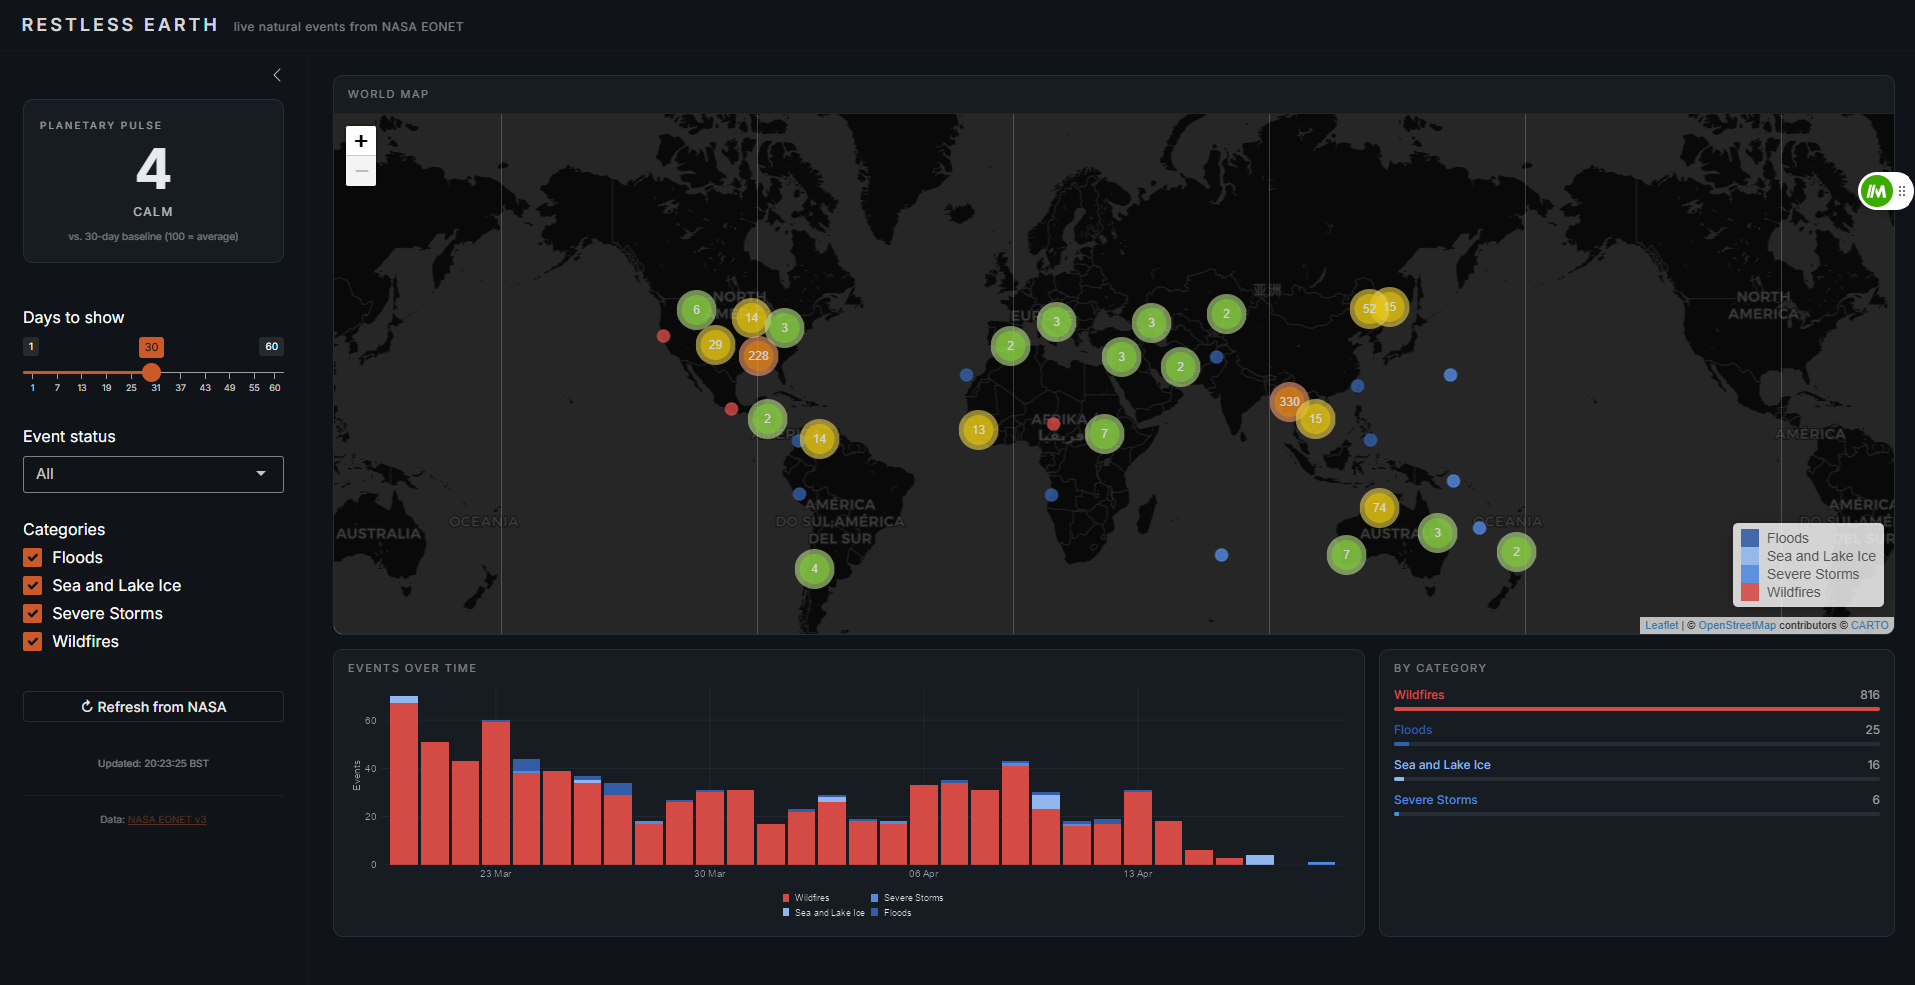
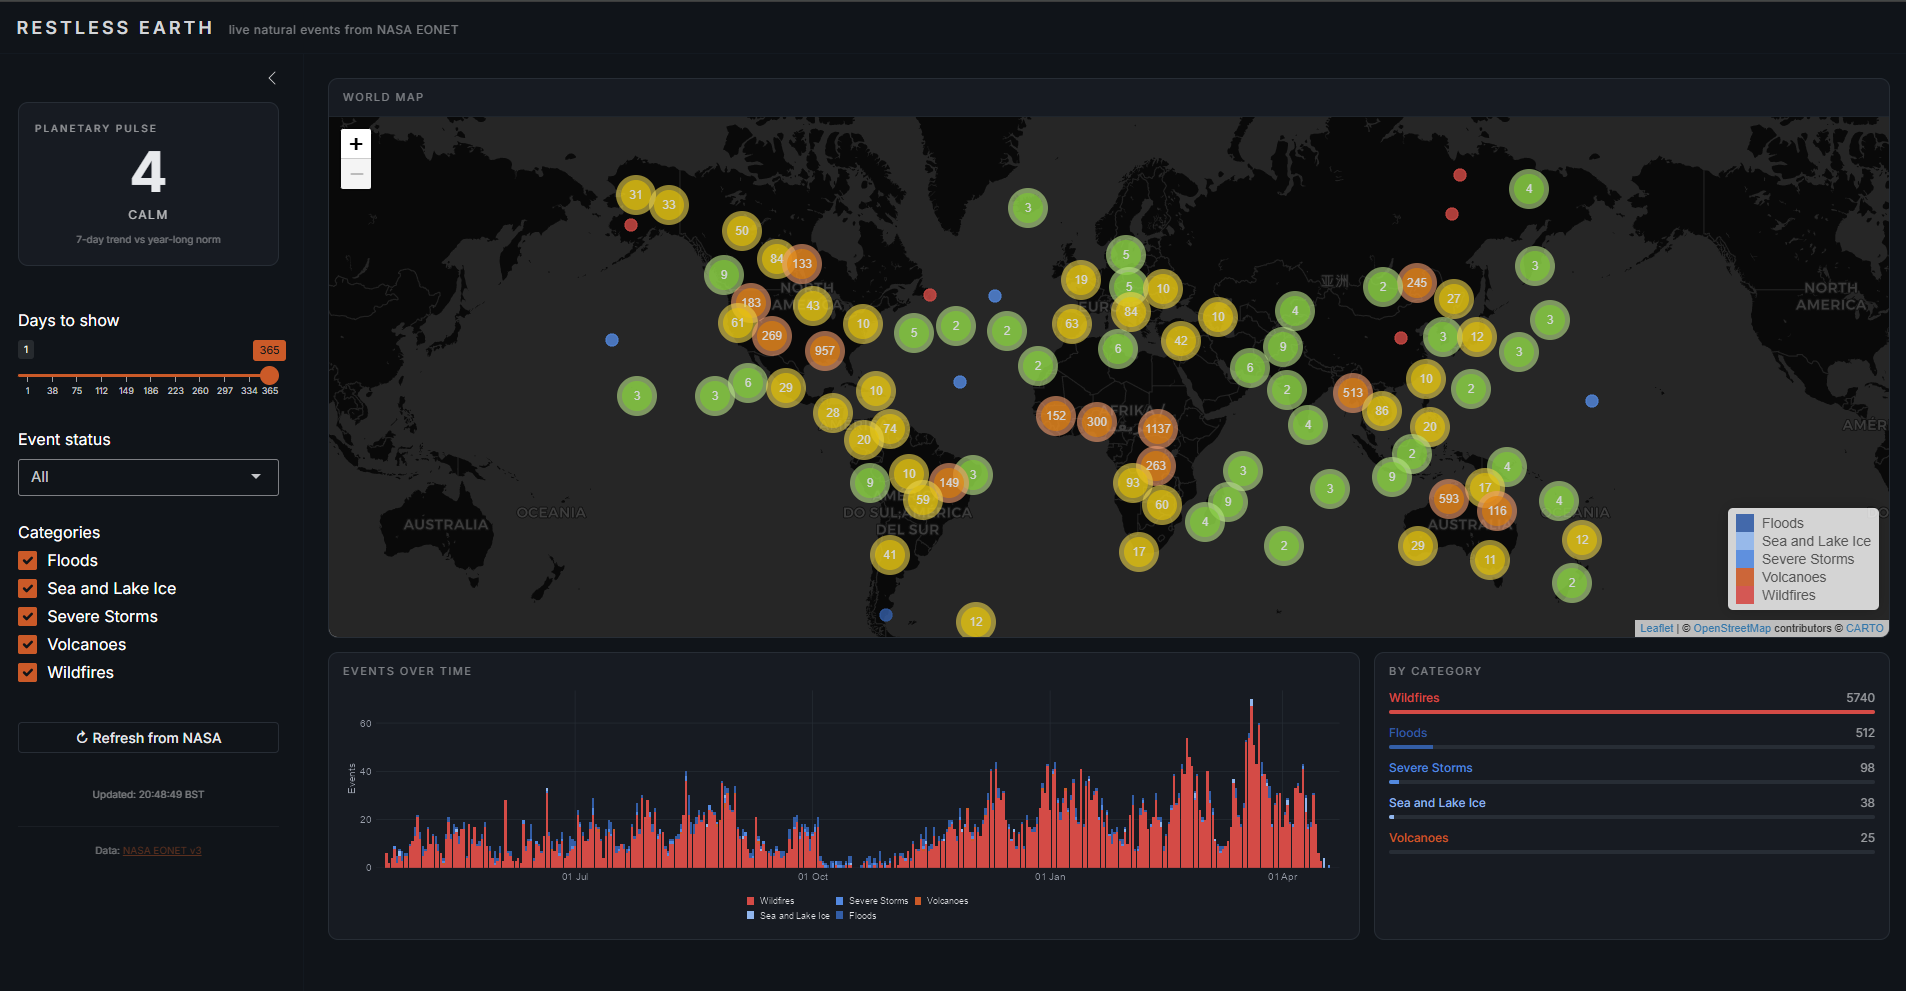
update index

diff --git a/README.md b/README.md
@@ -1,29 +1,27 @@
 # EONET Map
 
-Live natural events from NASA's [EONET](https://eonet.gsfc.nasa.gov) rendered on an interactive world map, plus a **Planetary Pulse Index** telling you how active Earth is today versus its 30-day baseline.
+Live natural events from NASA's [EONET](https://eonet.gsfc.nasa.gov) on an interactive world map, with a **Planetary Pulse Index** that tells you how restless Earth is this week compared to the last year.
 
 ![App showing the world map with active natural events, the Planetary Pulse index, and a timeline of events by category](docs/dashboard-view.png)
 
 ## What you get
 
--   **World map** with every open natural event (wildfires, storms, volcanoes, floods, ice, landslides, and more) pinned at its location, colour-coded by category, clustered when zoomed out. Click any marker for details and a link to the original source.
--   **Planetary Pulse Index** in the sidebar: a single number from roughly 0 to 200+. 100 is a normal day. 150 means Earth is 50% more restless than average. The verdict underneath tells you what that actually feels like.
--   **Filters** for category, time window (1 to 60 days), and event status (open / closed / all).
--   **Timeline** stacked by category so you can see which hazards are driving the current activity.
--   **Category breakdown** with a mini bar chart.
-
-All client-side, no API key, no database, 10-minute response cache so you don't hammer the API.
+- **World map** with every natural event (wildfires, storms, volcanoes, floods, ice, landslides, more) pinned at its location, colour-coded by category, clustered when zoomed out. Click any marker for details and a source link.
+- **Planetary Pulse Index** in the sidebar: a single number where 100 is a normal week, 120 is noticeably busy, 140+ is genuinely unusual. A short verdict underneath tells you what that feels like.
+- **Filters** for category, time window (1 to 365 days), and event status (open / closed / all).
+- **Timeline** stacked by category so you can see which hazards are driving the activity.
+- **Category breakdown** with a mini bar chart.
 
 ## Requirements
 
--   R 4.1 or newer (needs the native `|>` pipe)
--   An internet connection (to hit EONET and load Google Fonts)
+- R 4.1 or newer (needs the native `|>` pipe)
+- An internet connection (to hit EONET and load Google Fonts)
 
 ## Run it
 
 From the project root:
 
-``` r
+```r
 # 1. Install deps (one time)
 source("install.R")
 
@@ -33,52 +31,10 @@ shiny::runApp()
 
 Or from your shell:
 
-``` bash
+```bash
 Rscript -e 'source("install.R"); shiny::runApp()'
 ```
 
-Browser should open automatically at `http://127.0.0.1:XXXX`.
+Browser opens automatically at `http://127.0.0.1:XXXX`.
 
 ## Project layout
-
-```         
-restless-earth/
-├── app.R               # UI + server
-├── R/
-│   ├── api.R           # EONET fetcher + 10-min cache
-│   ├── index.R         # Planetary Pulse calculation
-│   └── ui_helpers.R    # Category colors
-├── install.R           # One-shot dep install
-└── README.md
-```
-
-Everything in `R/` auto-sources when Shiny starts, so you never need to manually `source()` anything.
-
-## How the Planetary Pulse Index works
-
-```         
-1. Weight each event by category     (storms = 1.2, wildfires = 1.0, dust = 0.5, etc.)
-2. Sum weighted events per day        -> daily activity score
-3. Baseline = mean daily score        over prior 30 days (excluding today)
-4. Pulse = (today / baseline) * 100
-```
-
-Verdict bands:
-
-| Pulse   | Verdict       |
-|---------|---------------|
-| 150+    | very restless |
-| 120–149 | restless      |
-| 90–119  | normal        |
-| 60–89   | quiet         |
-| \<60    | calm          |
-
-Weights live in `R/index.R` under `CATEGORY_WEIGHTS`. Tweak them if you think volcanoes should hit harder or dust deserves less weight. The framework is the interesting bit; the weights are opinions.
-
-## Things to try next
-
--   Add a second index scoped to a country or region (drop a bounding box in, count weighted events, divide by population or area)
--   Swap `CARTO.DarkMatter` for `Esri.WorldImagery` for satellite view
--   Add an auto-refresh on a 10-minute timer using `invalidateLater`
--   Hook in a second data source (USGS earthquakes, GDACS) and blend into the pulse
--   Log daily pulse values to a local SQLite and plot its own trend